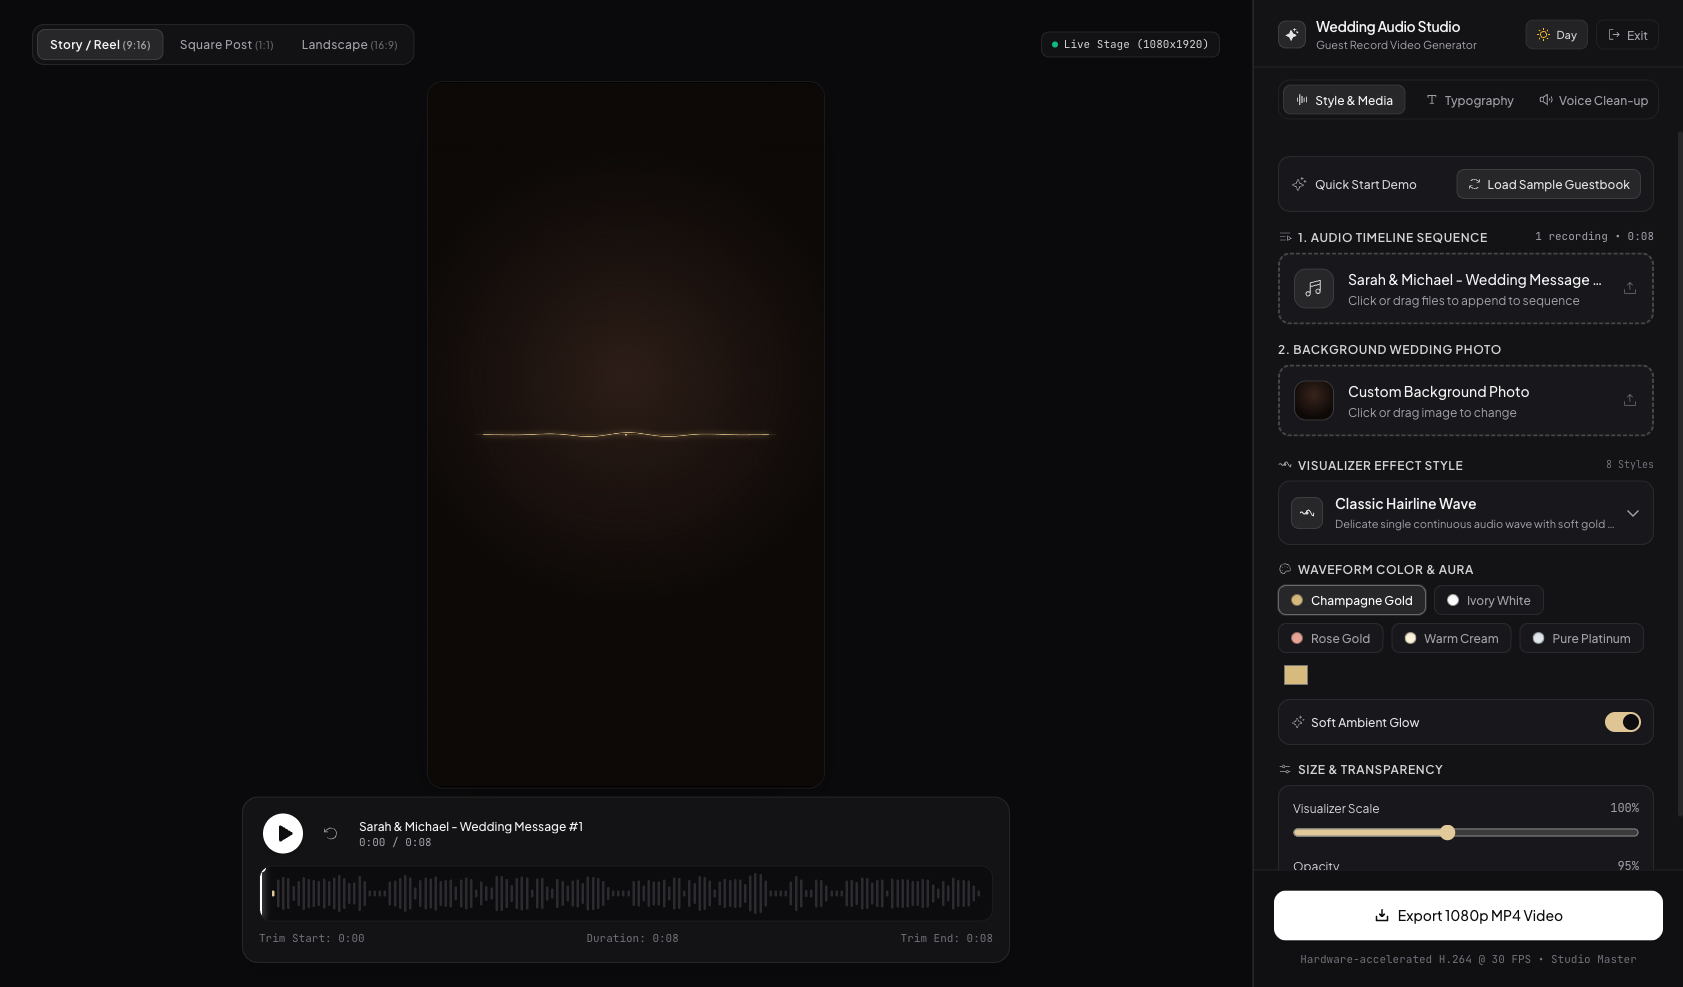
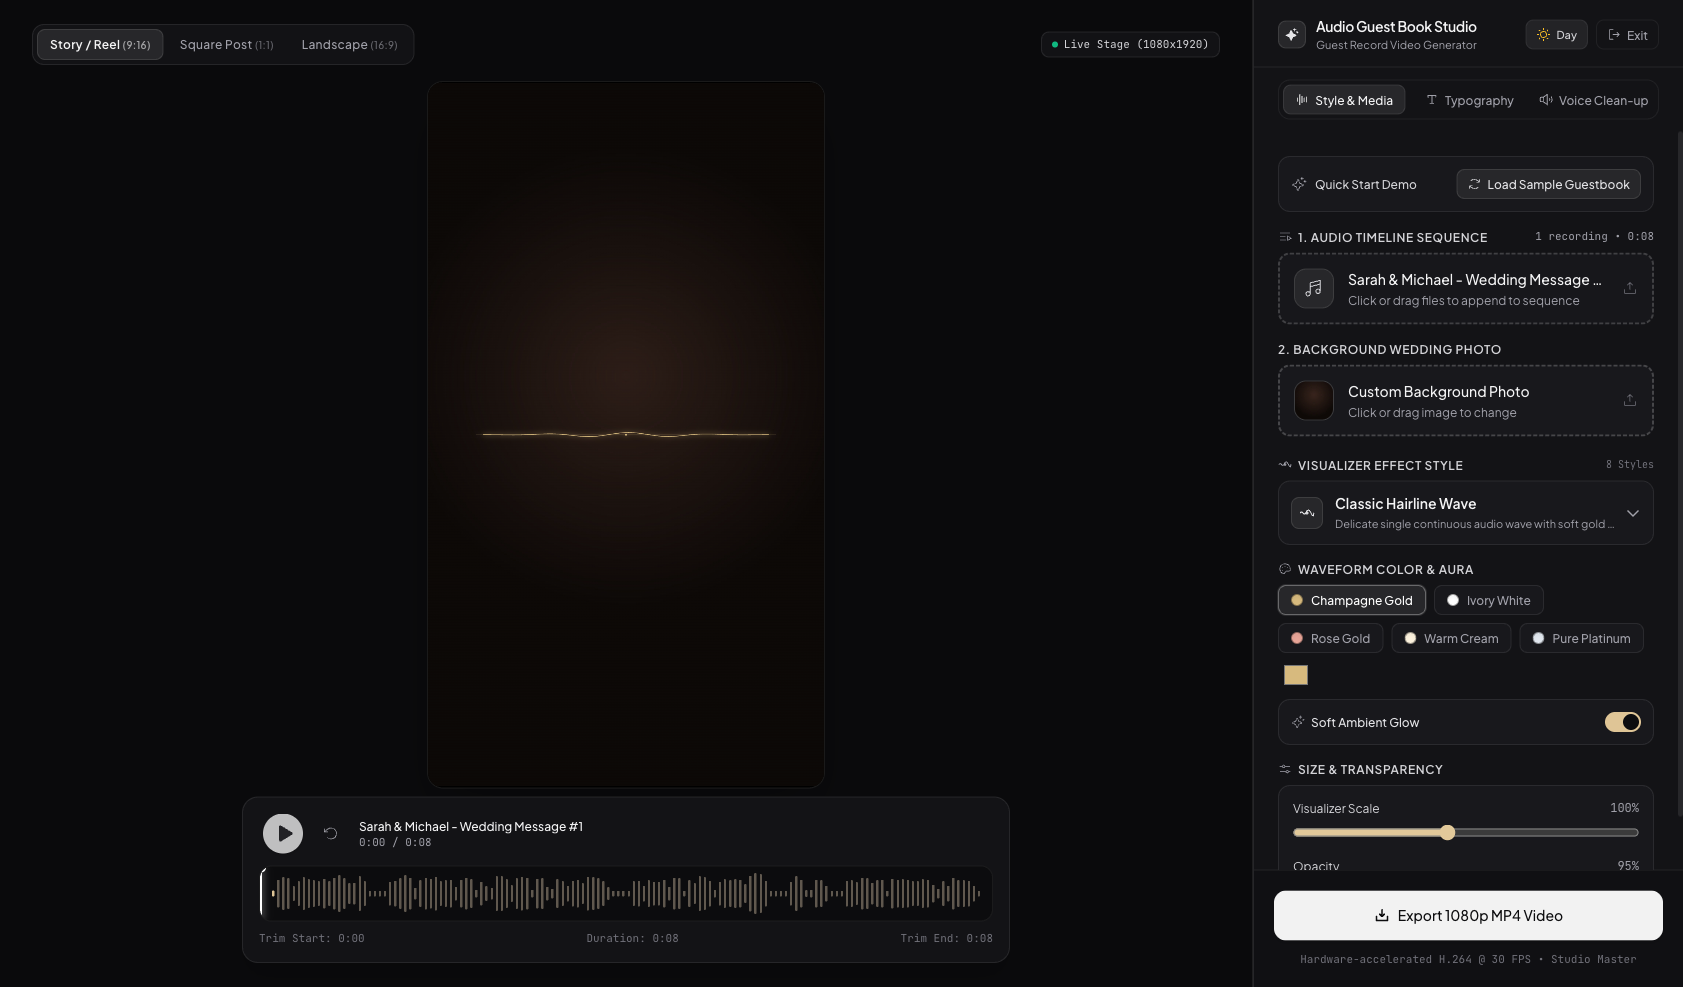
feat: rename project to Audio Guest Book Studio and add AI agent execution guide to README

Changed region(s): [[0.1545, 0.8207, 0.587, 0.9422], [0.7724, 0.0, 0.8651, 0.0304]]

diff --git a/src/components/ExitModal.tsx b/src/components/ExitModal.tsx
@@ -67,7 +67,7 @@ export const ExitModal: React.FC<ExitModalProps> = ({
             </div>
             <div>
               <h3 className="text-base font-semibold text-zinc-900 dark:text-zinc-100 tracking-tight">
-                {isExporting ? 'Cancel Export & Exit Studio?' : 'Exit Wedding Audio Studio?'}
+                {isExporting ? 'Cancel Export & Exit Studio?' : 'Exit Audio Guest Book Studio?'}
               </h3>
               <p className="text-xs text-zinc-500 dark:text-zinc-400 mt-0.5">
                 {isExporting
@@ -137,7 +137,7 @@ export const ExitModal: React.FC<ExitModalProps> = ({
             </div>
           ) : (
             <p className="text-xs text-zinc-500 dark:text-zinc-400 leading-relaxed">
-              Are you sure you want to close Wedding Audio Studio? Any temporary changes will be
+              Are you sure you want to close Audio Guest Book Studio? Any temporary changes will be
               closed.
             </p>
           )}

diff --git a/index.html b/index.html
@@ -3,7 +3,7 @@
   <head>
     <meta charset="UTF-8" />
     <meta name="viewport" content="width=device-width, initial-scale=1.0" />
-    <title>Wedding Audio Studio</title>
+    <title>Audio Guest Book Studio</title>
     <link rel="preconnect" href="https://fonts.googleapis.com">
     <link rel="preconnect" href="https://fonts.gstatic.com" crossorigin>
     <link href="https://fonts.googleapis.com/css2?family=Cinzel:wght@400;500;600;700&family=Cormorant+Garamond:ital,wght@0,300;0,400;0,500;0,600;0,700;1,400&family=Italiana&family=JetBrains+Mono:wght@400;500;600&family=Plus+Jakarta+Sans:wght@300;400;500;600;700&display=swap" rel="stylesheet">

diff --git a/src/App.tsx b/src/App.tsx
@@ -633,7 +633,7 @@ export const App: React.FC = () => {
               <Sparkle className="w-3.5 h-3.5" weight="fill" />
             </div>
             <div>
-              <h1 className="text-sm font-semibold tracking-tight text-zinc-900 dark:text-zinc-100">Wedding Audio Studio</h1>
+              <h1 className="text-sm font-semibold tracking-tight text-zinc-900 dark:text-zinc-100">Audio Guest Book Studio</h1>
               <p className="text-[11px] text-zinc-500 dark:text-zinc-400">Guest Record Video Generator</p>
             </div>
           </div>

diff --git a/tests/exitModal.test.tsx b/tests/exitModal.test.tsx
@@ -29,7 +29,7 @@ describe('ExitModal Confirmation Component', () => {
       />
     );
 
-    expect(html).toContain('Exit Wedding Audio Studio?');
+    expect(html).toContain('Exit Audio Guest Book Studio?');
     expect(html).toContain('3');
     expect(html).toContain('guest recording');
     expect(html).toContain('Sarah &amp; Michael - Voicemail.mp3');

diff --git a/electron/main.ts b/electron/main.ts
@@ -49,7 +49,7 @@ function createWindow() {
   const isMac = process.platform === 'darwin';
 
   win = new BrowserWindow({
-    title: 'Wedding Audio Studio',
+    title: 'Audio Guest Book Studio',
     width: 1280,
     height: 840,
     minWidth: 1060,

diff --git a/README.md b/README.md
@@ -1,4 +1,4 @@
-# Wedding Audio Studio 💍🎙
+# Audio Guest Book Studio 💍🎙
 
 > **An elegant, private, open-source desktop application that turns vintage audio guestbook voicemails and wedding recordings into cinematic 1080p MP4 videos with centered real-time audio visualizers, background photos, and haute-couture typography.**
 
@@ -8,6 +8,51 @@
 [![React 19](https://img.shields.io/badge/React-19.0-61dafb.svg)](https://react.dev)
 [![TypeScript](https://img.shields.io/badge/TypeScript-5.6-3178c6.svg)](https://www.typescriptlang.org)
 [![Vite](https://img.shields.io/badge/Vite-6.0-646cff.svg)](https://vitejs.dev)
+
+---
+
+## 🤖 Ask an AI Agent to Run This Project
+
+Working with an AI coding agent (**Claude Code**, **Cursor**, **Codex**, **Windsurf**, **Antigravity**, **OpenCode**, or **Gemini CLI**)? You can hand this repository directly to your agent to run, test, and develop.
+
+### Copy & Paste Prompt for Your Agent:
+
+```markdown
+Clone https://github.com/your-username/audio-guest-book-studio.git, install dependencies using `npm install`, verify the test suite with `npm test`, compile the TypeScript bundle via `npm run build`, and launch the development studio with `npm run dev`.
+```
+
+### Agent Quick-Start Instructions:
+
+```bash
+# 1. Clone repository from GitHub
+git clone https://github.com/your-username/audio-guest-book-studio.git
+cd audio-guest-book-studio
+
+# 2. Install dependencies
+npm install
+
+# 3. Run automated test suite (18 unit & integration tests)
+npm test
+
+# 4. Compile production bundles
+npm run build
+
+# 5. Launch development server & Electron studio
+npm run dev
+```
+
+### Key Technical Context for Agents:
+- **Stack**: React 19, TypeScript 5.6, Vite 6, Tailwind CSS v3 (`darkMode: 'class'`), `@phosphor-icons/react`.
+- **Desktop Runtime**: Electron 33 with secure Context Isolation (`electron/main.ts`, `electron/preload.ts`).
+- **Core Engine Modules**:
+  - Web Audio player & dynamic range compressor: [`src/engine/audioEngine.ts`](file:///Users/edgarskalnins/Desktop/Wedding%20Audio%20Studio/src/engine/audioEngine.ts)
+  - Multi-track timeline sequencing: [`src/engine/audioConcatenator.ts`](file:///Users/edgarskalnins/Desktop/Wedding%20Audio%20Studio/src/engine/audioConcatenator.ts)
+  - In-memory Cooley-Tukey Radix-2 FFT: [`src/engine/fft.ts`](file:///Users/edgarskalnins/Desktop/Wedding%20Audio%20Studio/src/engine/fft.ts)
+  - Frame rendering orchestrator: [`src/engine/frameGenerator.ts`](file:///Users/edgarskalnins/Desktop/Wedding%20Audio%20Studio/src/engine/frameGenerator.ts)
+  - Bundled FFmpeg pipe: [`src/engine/videoExporter.ts`](file:///Users/edgarskalnins/Desktop/Wedding%20Audio%20Studio/src/engine/videoExporter.ts)
+  - 8 Visualizer algorithms: [`src/engine/visualizers/styles.ts`](file:///Users/edgarskalnins/Desktop/Wedding%20Audio%20Studio/src/engine/visualizers/styles.ts)
+- **Local Dev Server**: Vite runs on `http://localhost:5173/`. Can be tested in any browser or headless automation tool (`ego-browser`, Playwright, Puppeteer).
+- **Strict Privacy Requirement**: Zero telemetry, zero analytics, zero external network pings. All processing runs 100% locally.
 
 ---
 
@@ -21,9 +66,9 @@
 
 ## 🔒 Privacy & Zero-Telemetry Pledge
 
-Wedding voicemails are deeply intimate family moments: heartfelt grandparent blessings, tearful parental toasts, and hilarious late-night voicemail messages from closest friends.
+Wedding and event voicemails are deeply intimate family moments: heartfelt grandparent blessings, tearful parental toasts, and hilarious late-night messages from closest friends.
 
-**Wedding Audio Studio is built on an absolute local-first architecture:**
+**Audio Guest Book Studio is built on an absolute local-first architecture:**
 - **Zero Cloud Uploads**: Audio, photos, and video compilation never leave your computer.
 - **Zero Telemetry & Analytics**: No Google Analytics, no Mixpanel, no Sentry, no phone-home pingbacks, and no user tracking.
 - **100% Offline Capability**: Runs entirely without an active internet connection. All font families, icons, and encoder binaries are packaged locally.
@@ -137,7 +182,7 @@ Every module in this project is strictly decoupled, strongly typed, and thorough
 
 ## 💻 Platform Support
 
-Wedding Audio Studio is engineered to compile and run smoothly across all major desktop operating systems without platform lock-in:
+Audio Guest Book Studio is engineered to compile and run smoothly across all major desktop operating systems without platform lock-in:
 
 | Platform | Target Binaries | Architecture | Acceleration |
 | :--- | :--- | :--- | :--- |
@@ -155,8 +200,8 @@ Wedding Audio Studio is engineered to compile and run smoothly across all major 
 
 ### 1. Clone & Install
 ```bash
-git clone https://github.com/your-username/wedding-audio-studio.git
-cd wedding-audio-studio
+git clone https://github.com/your-username/audio-guest-book-studio.git
+cd audio-guest-book-studio
 npm install
 ```
 

diff --git a/CONTRIBUTING.md b/CONTRIBUTING.md
@@ -1,6 +1,6 @@
-# Contributing to Wedding Audio Studio 💍🎙
+# Contributing to Audio Guest Book Studio 💍🎙
 
-Thank you for your interest in contributing to Wedding Audio Studio! We welcome community contributions to make this open-source tool the most reliable, private, and beautiful audio guestbook video generator available.
+Thank you for your interest in contributing to Audio Guest Book Studio! We welcome community contributions to make this open-source tool the most reliable, private, and beautiful audio guestbook video generator available.
 
 ---
 
@@ -24,8 +24,8 @@ Wedding voicemails are deeply personal and sentimental recordings. Any pull requ
 
 1. **Fork and Clone**
    ```bash
-   git clone https://github.com/<your-username>/wedding-audio-studio.git
-   cd wedding-audio-studio
+   git clone https://github.com/<your-username>/audio-guest-book-studio.git
+   cd audio-guest-book-studio
    ```
 
 2. **Install Dependencies**
